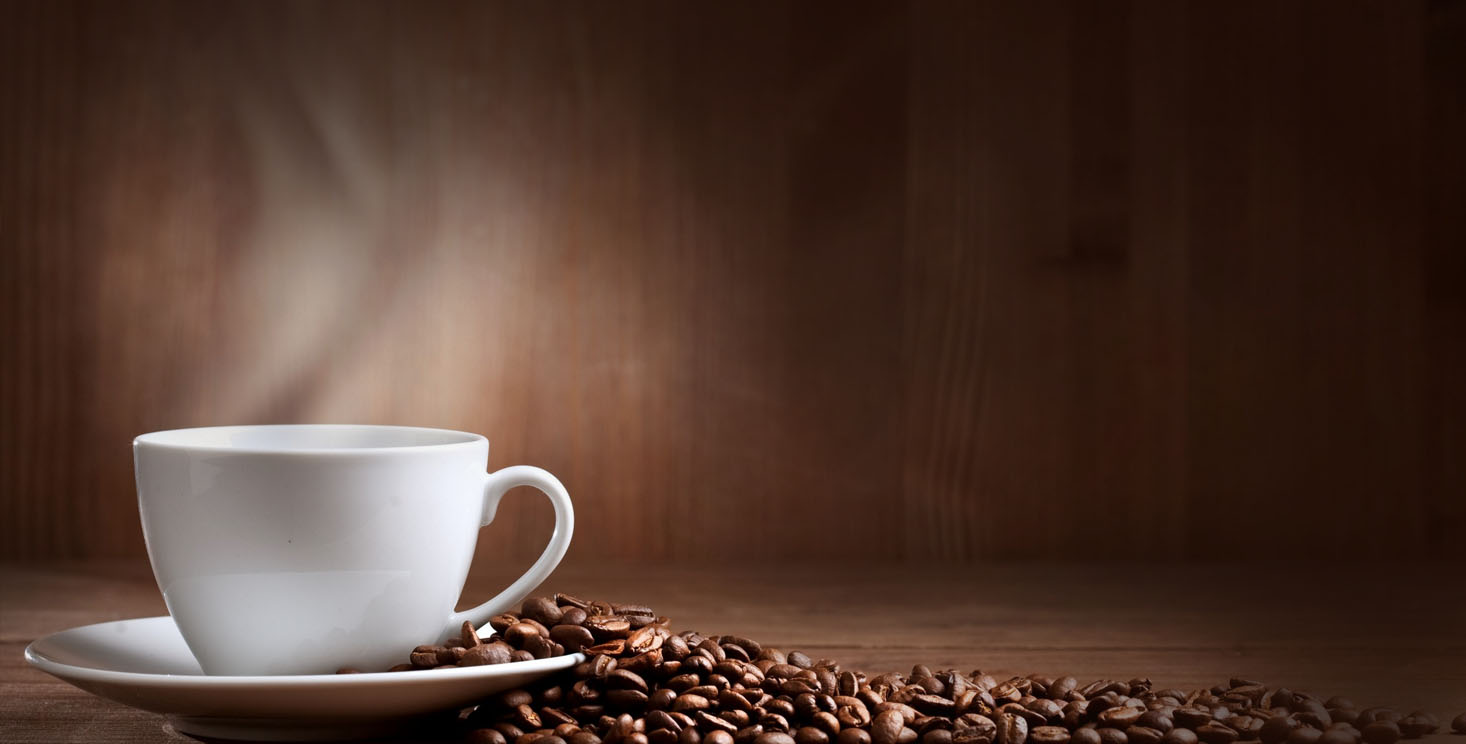
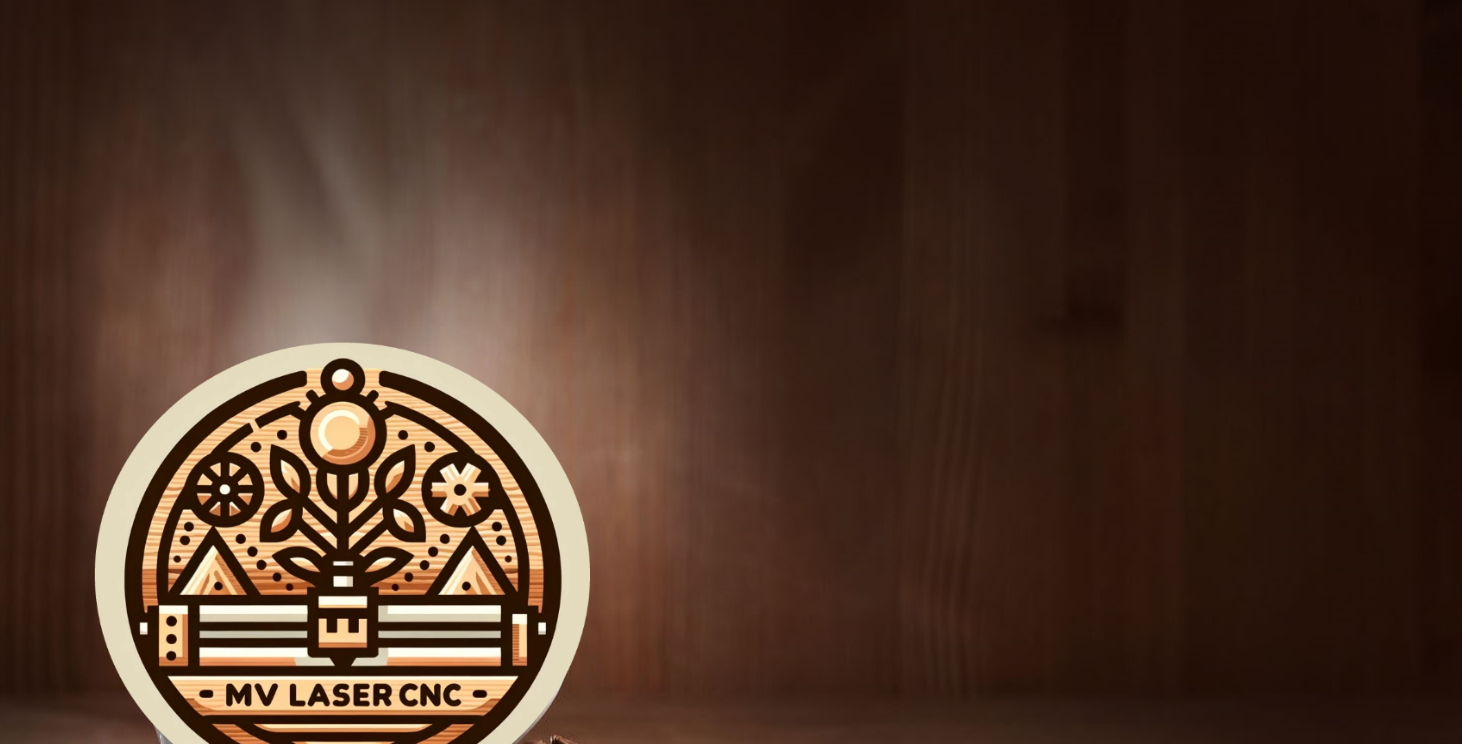
header

Changed region(s): [[0.0, 0.0, 1.0, 1.0]]

diff --git a/index.html b/index.html
@@ -51,15 +51,14 @@
   </div>
 </div>
 
-<!-- ==== HEADERWRAP ==== -->
+<!-- ==== HEAdsasdsssasdsaDERWRAP ==== -->
 <div id="home-section">
 <div id="headerwrap" name="home">
   <header class="clearfix tb"> 
  <div class="tb-cell text-center">
- <i class="fa fa-heart-o icon"></i>
-    <h1>Coffee - Makes you Love</h1>
-    <p>A Lot Can Happen Over Coffee, Its Awesome!!! </p>
-    <a href="#portfolio" class="smoothScroll btn btn-lg">Today's Special</a> 
+  <i class="fa fa-heart-o icon"></i>
+    <h1>Maßgeschneiderte <p></p>Holzdekorationen</h1>
+    <a href="#portfolio" class="smoothScroll btn btn-lg">Produktbeispiele</a> 
 	</div>
 	</header>
 </div>
